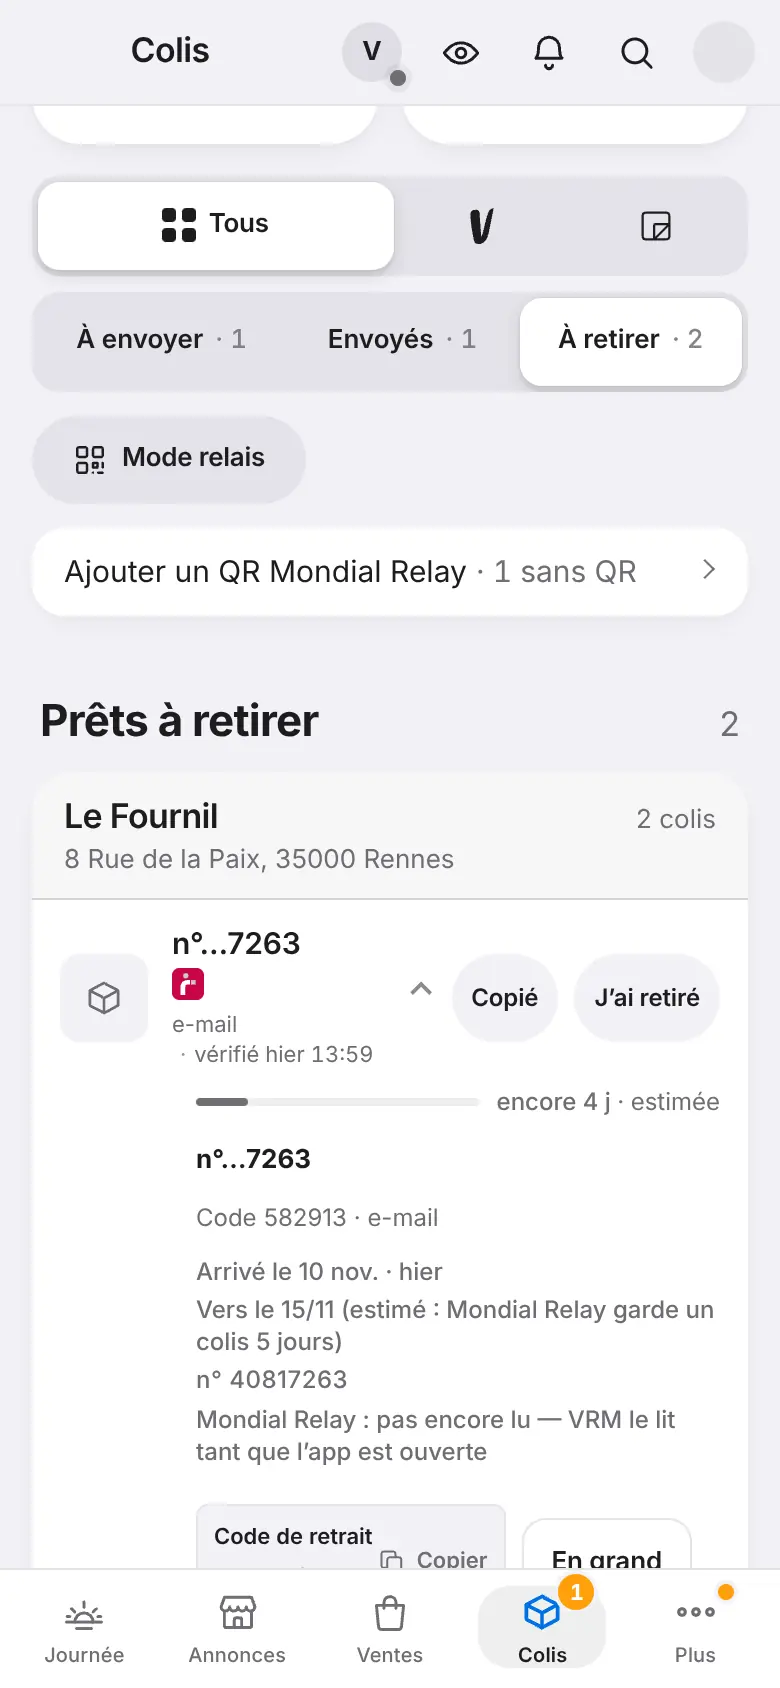
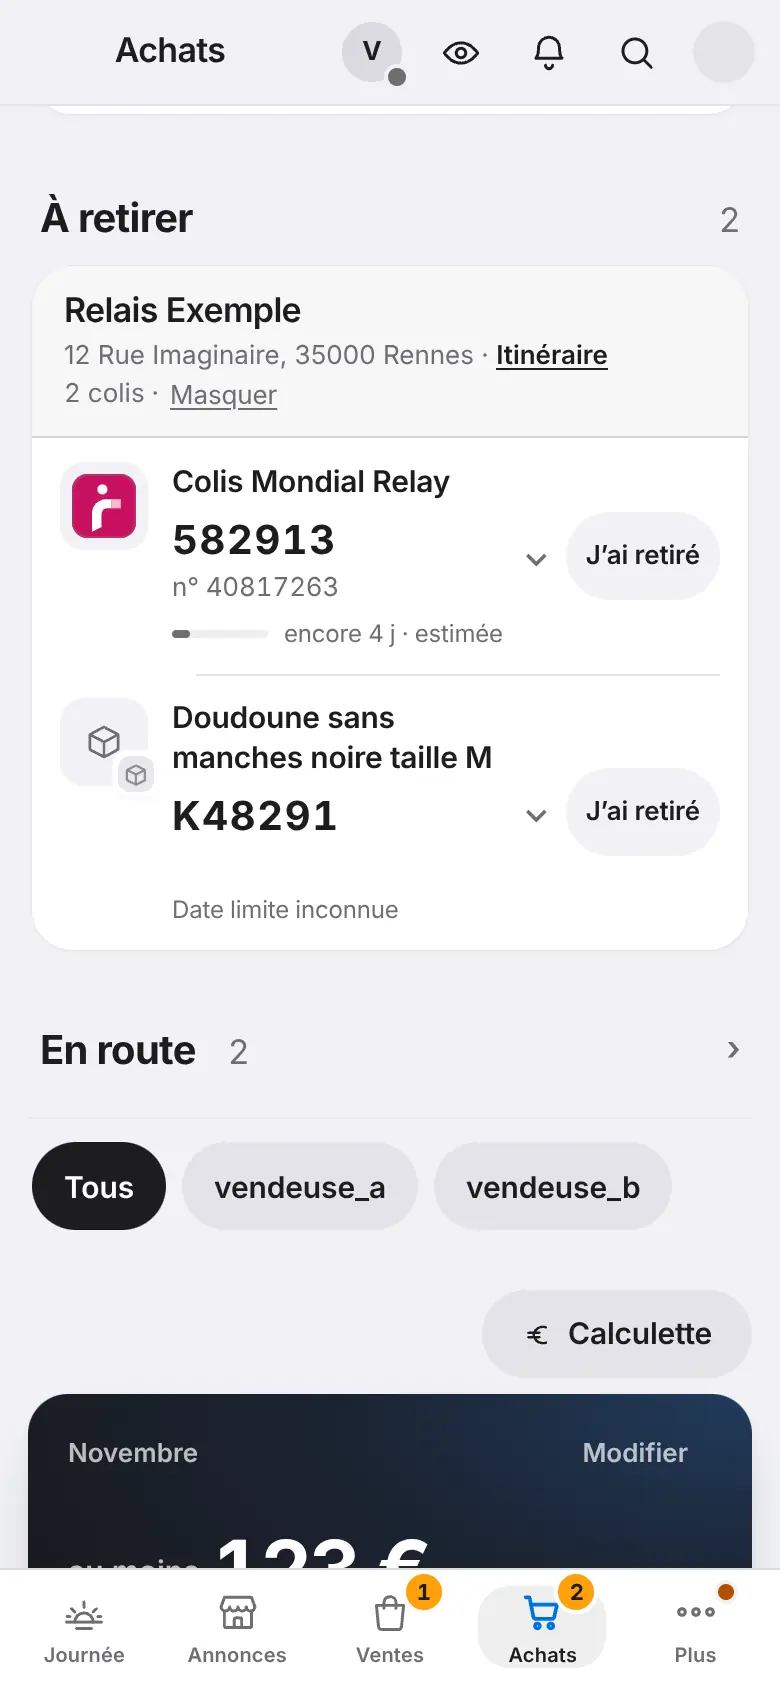
Mode exemple : 21 vraies photos (Wikimedia Commons, CC0 / domaine public), une par paire ; code de la fiche colis marqué ; capture « À retirer » de l'accueil refaite avec le lieu fictif
Claude-Session: https://claude.ai/code/session_012UsEbcF3XbBnmXpwYyNnbn

diff --git a/src/exemplePhotos.js b/src/exemplePhotos.js
@@ -16,16 +16,38 @@
 // ⚠ La marque, le modèle et la couleur d'une entrée décrivent CE QU'ON VOIT sur
 //    la photo : le titre de l'exemple en est tiré (titre ⇔ photo cohérents).
 //
-// (14 nov.) VIDE : le réseau du conteneur de la session a refusé les hôtes des
-// sources permises (commons.wikimedia.org, upload.wikimedia.org,
-// api.openverse.org, unsplash.com, images.unsplash.com, www.pexels.com,
-// images.pexels.com — refus 403 du proxy au CONNECT). Rien n'a été mis à la
-// place : pas de photo d'origine inconnue. Récit :
-// docs/passation/2026-11-14-exemple-photos.md (« Pour ajouter les photos »).
+// (14 nov.) 21 photos de Wikimedia Commons (CC0 ou domaine public versé par
+// l'auteur), recadrées en carré (la paire entière, sur un fond tiré de la photo).
+// L'ORDRE compte : l'entrée n° k est la photo de la paire d'exemple n° k
+// (annonces 0-11, ventes 12-15, achats 16-18) ; les deux dernières sont de
+// réserve (pour remplacer une photo retirée sans en chercher une autre).
+// Récit : docs/passation/2026-11-14-exemple-photos.md.
 //
 // Forme d'une entrée :
 //   { fichier: 'nike-air-max-90-blanche', marque: 'Nike', modele: 'Air Max 90', couleur: 'blanche' }
-export const PHOTOS_EXEMPLE = [];
+export const PHOTOS_EXEMPLE = [
+  { fichier: 'adidas-samba-og-blanche', marque: 'Adidas', modele: 'Samba OG', couleur: 'blanche' },
+  { fichier: 'nike-air-force-1-blanche', marque: 'Nike', modele: 'Air Force 1', couleur: 'blanche' },
+  { fichier: 'new-balance-574-grise', marque: 'New Balance', modele: '574', couleur: 'grise' },
+  { fichier: 'adidas-sl-72-og-rouge', marque: 'Adidas', modele: 'SL 72 OG', couleur: 'rouge' },
+  { fichier: 'nike-dunk-low-noire-blanche', marque: 'Nike', modele: 'Dunk Low', couleur: 'noire et blanche' },
+  { fichier: 'puma-suede-noire', marque: 'Puma', modele: 'Suede', couleur: 'noire' },
+  { fichier: 'new-balance-550-blanche-bordeaux', marque: 'New Balance', modele: '550', couleur: 'blanche et bordeaux' },
+  { fichier: 'nike-air-tailwind-grise-bleue', marque: 'Nike', modele: 'Air Tailwind', couleur: 'grise et bleue' },
+  { fichier: 'adidas-sl-72-rs-bleue', marque: 'Adidas', modele: 'SL 72 RS', couleur: 'bleue' },
+  { fichier: 'nike-zoom-vomero-5-argent', marque: 'Nike', modele: 'Zoom Vomero 5', couleur: 'argent' },
+  { fichier: 'new-balance-numeric-480-marron', marque: 'New Balance', modele: 'Numeric 480', couleur: 'marron et verte' },
+  { fichier: 'adidas-superstar-blanche', marque: 'Adidas', modele: 'Superstar', couleur: 'blanche' },
+  { fichier: 'nike-cortez-blanche-rouge', marque: 'Nike', modele: 'Cortez', couleur: 'blanche et rouge' },
+  { fichier: 'new-balance-1906r-argent', marque: 'New Balance', modele: '1906R', couleur: 'argent' },
+  { fichier: 'adidas-handball-spezial-noire', marque: 'Adidas', modele: 'Handball Spezial', couleur: 'noire' },
+  { fichier: 'nike-air-max-90-blanche', marque: 'Nike', modele: 'Air Max 90', couleur: 'blanche' },
+  { fichier: 'nike-terminator-low-rose-grise', marque: 'Nike', modele: 'Terminator Low', couleur: 'rose et grise' },
+  { fichier: 'adidas-forum-low-blanche', marque: 'Adidas', modele: 'Forum Low', couleur: 'blanche' },
+  { fichier: 'adidas-nmd-r1-bleu-marine', marque: 'Adidas', modele: 'NMD R1', couleur: 'bleu marine' },
+  { fichier: 'adidas-campus-00s-marron', marque: 'Adidas', modele: 'Campus 00s', couleur: 'marron' },
+  { fichier: 'nike-air-max-ltd-2-grise', marque: 'Nike', modele: 'Air Max LTD 2', couleur: 'grise' },
+];
 
 // Les licences permises (la même liste que l'audit) et la page source attendue.
 export const LICENCES_PERMISES = {

diff --git a/src/FichePaire.jsx b/src/FichePaire.jsx
@@ -209,11 +209,15 @@ export default function FichePaire({ owner = '', p, etat = null, histoNum = null
   const titreHeros = p ? ((neuve && neuve.titre) || p.titre || (p.etat === 'rien' ? 'N° jamais servi' : 'Sans titre')) : ((depuis && depuis.titre) || tr('fiche.sansTitre'));
   const tailleHeros = p ? ((neuve && neuve.taille) || p.taille || '') : '';
   const sousHeros = [ctx ? tr(CLE_CTX[ctx] || 'fiche.ctx.vente') : '', depuis && depuis.sous ? depuis.sous : ''].filter(Boolean).join(' · ');
+  // (14 nov.) Sur une ligne « À retirer », `sous` EST le code de retrait (src/CarteRelais.jsx) : il garde son
+  // propre élément, marqué comme un code (`data-stream-type="code"`) — masqué en direct, « exemple » dans l'exemple.
+  const ctxHeros = ctx ? tr(CLE_CTX[ctx] || 'fiche.ctx.vente') : '';
+  const codeHeros = ctx === 'retrait' && depuis && depuis.sous ? depuis.sous : '';
   const heros = (p || depuis) ? (
     <section className={'vrm-fp-heros vrm-fp-entete' + (photoHeros ? ' a-photo' : ' is-sans-photo')} data-fiche-heros={ctx || 'numero'} data-fiche-photo-vedette={photoHeros ? '1' : '0'} aria-label={tr('fiche.heros')}>
       <span className="vrm-fp-heros-photo vrm-fp-photo" data-fiche-heros-photo={photoHeros ? '1' : '0'}>{photoHeros && Photo ? Photo(photoHeros) : <Silhouette/>}</span>
       <span className="vrm-fp-quoi">
-        {sousHeros ? <span className="vrm-fp-heros-ctx" data-fiche-heros-ctx="">{sousHeros}</span> : null}
+        {sousHeros ? <span className="vrm-fp-heros-ctx" data-fiche-heros-ctx="">{codeHeros ? <>{ctxHeros ? `${ctxHeros} · ` : ''}<span className="vrm-sensible" data-stream-type="code" data-fiche-heros-code="">{codeHeros}</span></> : sousHeros}</span> : null}
         {p ? <span className={'vrm-fp-num' + (double ? ' is-double' : '')} data-fiche-grand-num="">{p.num}</span>
           : <span className="vrm-fp-num is-sans" data-fiche-grand-num="" data-fiche-sans-num="">{ligneRes && ligneRes.etat === 'lot' ? tr('fiche.lotN', { n: String(ligneRes.nums.length) }) : tr('fiche.sansNum')}</span>}
         <span className="vrm-fp-titre">{motsInsecables(titreHeros)}{tailleHeros ? ` · ${tailleHeros}` : ''}</span>

diff --git a/src/exempleDonnees.js b/src/exempleDonnees.js
@@ -74,7 +74,7 @@ export function jeuExemple(now = Date.now(), { catalogue = null, origine = '' } 
     { id: 'email_track_mondialrelay_40817263', data: { carrier: 'mondialrelay', status: 'disponible', suivi: '40817263', code: '582913', lieu: LIEU_EXEMPLE.join('\n'), subject: 'Votre colis est disponible', receivedAt: iso(1), arriveLe: iso(1), dateLimite: new Date(now + 5 * 86400000).toISOString() } },
     { id: 'harvest_111_billing', data: { capturedAt: iso(0.01), payload: { user_balance: { available_amount: { amount: '64.0' }, escrow_amount: { amount: '120.0' } } } } },
     { id: 'lbc_accounts', data: { accounts: { lbcA: { id: 'lbcA', name: 'Ma boutique', sessionAt: iso(1) } } } },
-    { id: 'lbc_listings', data: { items: { 3100000001: { id: '3100000001', ref: '2', customRef: 'VRM-2', subject: varie ? article(2).titre : 'Adidas Samba OG noire T39', status: 'active', account: 'lbcA', seenAt: iso(0.5), price: 55 } } } },
+    { id: 'lbc_listings', data: { items: { 3100000001: { id: '3100000001', ref: '2', customRef: 'VRM-2', subject: varie ? article(2).titre : titreVu(kAnnonce(1), 39, 'Adidas Samba OG noire taille 39').replace(/ taille (\d+)$/, ' T$1'), photo: photo(kAnnonce(1)),   /* le N° 2 = l'annonce 1 : la même paire, la même photo */ status: 'active', account: 'lbcA', seenAt: iso(0.5), price: 55 } } } },
     { id: 'lbc_ventes', data: { ventes: {} } },
   ].map((l) => ({ ...l, owner: UID_EXEMPLE, updated_at: iso(0), created_at: iso(30) }));
   const comptes = [

diff --git a/src/i18n/langues/es-accueil.js b/src/i18n/langues/es-accueil.js
@@ -71,7 +71,7 @@ export default {
   "accueil.hero.titre": "Tus ventas, tus paquetes y tu contabilidad, en un solo lugar.",
   "accueil.journee.chapo": "Por la mañana, en el punto de recogida, en el almacén, con tus compradores, a fin de mes.",
   "accueil.journee.titre": "Tu día de revendedor, en cinco momentos.",
-  "accueil.moment.colis.alt": "La pantalla Paquetes de VRM, pestaña «Por recoger»: el punto de recogida Le Fournil en Rennes, dos paquetes y el código de recogida 582913 listo para copiar. Datos de ejemplo.",
+  "accueil.moment.colis.alt": "La pantalla Compras de VRM, apartado «Por recoger»: el punto de recogida «Relais Exemple» en Rennes, dos paquetes y sus códigos de recogida 582913 y K48291. Datos de ejemplo.",
   "accueil.moment.colis.point1": "El código, el QR y el punto de recogida de cada compra.",
   "accueil.moment.colis.point2": "«Ya lo recogí» lo quita de la lista; un paquete dudoso sigue visible, nunca oculto.",
   "accueil.moment.colis.texte": "Las etiquetas de envío se imprimen con un toque, selladas con el título y el número del artículo. En el punto de recogida, tus códigos te esperan, ordenados por punto, incluso sin conexión.",

diff --git a/src/i18n/langues/it-accueil.js b/src/i18n/langues/it-accueil.js
@@ -71,7 +71,7 @@ export default {
   "accueil.hero.titre": "Le tue vendite, i tuoi pacchi e la tua contabilità, nello stesso posto.",
   "accueil.journee.chapo": "Al mattino, al punto di ritiro, in magazzino, con i tuoi acquirenti, a fine mese.",
   "accueil.journee.titre": "La tua giornata da rivenditore, in cinque momenti.",
-  "accueil.moment.colis.alt": "La schermata Pacchi di VRM, scheda «Da ritirare»: il punto di ritiro Le Fournil a Rennes, due pacchi e il codice di ritiro 582913 pronto da copiare. Dati di esempio.",
+  "accueil.moment.colis.alt": "La schermata Acquisti di VRM, sezione «Da ritirare»: il punto di ritiro «Relais Exemple» a Rennes, due pacchi e i loro codici di ritiro 582913 e K48291. Dati di esempio.",
   "accueil.moment.colis.point1": "Il codice, il QR e il punto di ritiro di ogni acquisto.",
   "accueil.moment.colis.point2": "«Ritirato» lo toglie dalla lista; un pacco dubbio resta visibile, mai nascosto.",
   "accueil.moment.colis.texte": "Le etichette di spedizione si stampano con un tocco, timbrate con titolo e numero dell’articolo. Al punto di ritiro, i tuoi codici ti aspettano, ordinati per punto, anche offline.",

diff --git a/src/i18n/langues/fr-accueil.js b/src/i18n/langues/fr-accueil.js
@@ -71,7 +71,7 @@ export default {
   "accueil.hero.titre": "Tes ventes, tes colis et ta compta, au même endroit.",
   "accueil.journee.chapo": "Le matin, au relais, au stock, avec tes acheteurs, en fin de mois.",
   "accueil.journee.titre": "Ta journée de revendeur, en cinq moments.",
-  "accueil.moment.colis.alt": "L’écran Colis de VRM, onglet « À retirer » : le point relais Le Fournil à Rennes, deux colis, et le code de retrait 582913 prêt à copier. Données d’exemple.",
+  "accueil.moment.colis.alt": "L’écran Achats de VRM, partie « À retirer » : le point relais « Relais Exemple » à Rennes, deux colis et leurs codes de retrait 582913 et K48291. Données d’exemple.",
   "accueil.moment.colis.point1": "Le code, le QR et le point relais de chaque achat.",
   "accueil.moment.colis.point2": "« J’ai retiré » le sort de la liste ; un colis douteux reste visible, jamais caché.",
   "accueil.moment.colis.texte": "Les bordereaux s’impriment d’un geste, tamponnés du titre et du numéro de l’article. Au relais, tes codes de retrait t’attendent, rangés par point, même sans réseau.",

diff --git a/src/i18n/langues/en-accueil.js b/src/i18n/langues/en-accueil.js
@@ -71,7 +71,7 @@ export default {
   "accueil.hero.titre": "Your sales, parcels and accounting, in one place.",
   "accueil.journee.chapo": "In the morning, at the pickup point, in the stockroom, with your buyers, at month’s end.",
   "accueil.journee.titre": "Your reseller day, in five moments.",
-  "accueil.moment.colis.alt": "VRM’s Parcels screen, “To pick up” tab: the Le Fournil pickup point in Rennes, two parcels, and the pickup code 582913 ready to copy. Sample data.",
+  "accueil.moment.colis.alt": "VRM’s Purchases screen, “To pick up” section: the “Relais Exemple” pickup point in Rennes, two parcels and their pickup codes 582913 and K48291. Sample data.",
   "accueil.moment.colis.point1": "The code, the QR and the pickup point for each purchase.",
   "accueil.moment.colis.point2": "“Picked up” takes it off the list; a doubtful parcel stays visible, never hidden.",
   "accueil.moment.colis.texte": "Shipping labels print in one tap, stamped with the item’s title and number. At the pickup point, your pickup codes are waiting, sorted by location, even offline.",

diff --git a/src/i18n/langues/de-accueil.js b/src/i18n/langues/de-accueil.js
@@ -71,7 +71,7 @@ export default {
   "accueil.hero.titre": "Deine Verkäufe, Pakete und Buchhaltung an einem Ort.",
   "accueil.journee.chapo": "Morgens, im Paketshop, im Lager, mit deinen Käufern, am Monatsende.",
   "accueil.journee.titre": "Dein Tag als Wiederverkäufer, in fünf Momenten.",
-  "accueil.moment.colis.alt": "Die Seite Pakete in VRM, Reiter „Abzuholen“: der Paketshop Le Fournil in Rennes, zwei Pakete und der Abholcode 582913 zum Kopieren. Beispieldaten.",
+  "accueil.moment.colis.alt": "Die Seite Einkäufe in VRM, Bereich „Abzuholen“: der Paketshop „Relais Exemple“ in Rennes, zwei Pakete und ihre Abholcodes 582913 und K48291. Beispieldaten.",
   "accueil.moment.colis.point1": "Code, QR und Paketshop für jeden Einkauf.",
   "accueil.moment.colis.point2": "„Abgeholt“ nimmt es von der Liste; ein fragliches Paket bleibt sichtbar, nie versteckt.",
   "accueil.moment.colis.texte": "Versandetiketten druckst du mit einem Tipp, gestempelt mit Titel und Nummer des Artikels. Im Paketshop warten deine Abholcodes, nach Ort sortiert, auch offline.",

diff --git a/public/exemple/CREDITS.md b/public/exemple/CREDITS.md
@@ -17,6 +17,9 @@ Règles (vérifiées par `scripts/audit-exemple-photos.cjs`) :
 - deux fichiers par photo : `{fichier}-400.webp` (400 × 400) et `{fichier}-120.webp` (120 × 120),
   chacun **< 40 Ko** ;
 - aucune photo d'une vraie annonce Vinted, aucune personne identifiable, aucun visage ;
+- licence relue SUR la page source le 14 nov. 2026 (modèle `{{self|cc-zero}}`, `{{PD-self}}`,
+  `{{PD-user}}` ou `{{PD-user-w}}` : l'auteur a lui-même versé sa photo), aucune demande de suppression ;
+  les marques (logos) visibles sur les chaussures restent celles de leurs fabricants ;
 - « ce qu'on voit » (marque, modèle, couleur) est celui de l'entrée de `src/exemplePhotos.js` :
   le titre de la paire d'exemple en est tiré.
 
@@ -24,6 +27,25 @@ Règles (vérifiées par `scripts/audit-exemple-photos.cjs`) :
 
 | fichier | ce qu'on voit | auteur | page source | licence | vérifiée le |
 |---|---|---|---|---|---|
+| adidas-samba-og-blanche | Adidas Samba OG blanche | LeDroider | https://commons.wikimedia.org/wiki/File:Adidas_Samba_OG.jpg | CC0 1.0 | 2026-11-14 |
+| nike-air-force-1-blanche | Nike Air Force 1 blanche | Kyntömies (Wikipedia en finnois) | https://commons.wikimedia.org/wiki/File:Nike_Air_Force_1.jpg | Domaine public | 2026-11-14 |
+| new-balance-574-grise | New Balance 574 grise | LeDroider | https://commons.wikimedia.org/wiki/File:New_Balance_574.jpg | CC0 1.0 | 2026-11-14 |
+| adidas-sl-72-og-rouge | Adidas SL 72 OG rouge | LeDroider | https://commons.wikimedia.org/wiki/File:Adidas_SL_72_OG.jpg | CC0 1.0 | 2026-11-14 |
+| nike-dunk-low-noire-blanche | Nike Dunk Low noire et blanche | LeDroider | https://commons.wikimedia.org/wiki/File:Panda_Nike_Dunk.jpg | CC0 1.0 | 2026-11-14 |
+| puma-suede-noire | Puma Suede noire | LeDroider | https://commons.wikimedia.org/wiki/File:Puma_Suede.jpg | CC0 1.0 | 2026-11-14 |
+| new-balance-550-blanche-bordeaux | New Balance 550 blanche et bordeaux | LeDroider | https://commons.wikimedia.org/wiki/File:New_Balance_550.jpg | CC0 1.0 | 2026-11-14 |
+| nike-air-tailwind-grise-bleue | Nike Air Tailwind grise et bleue | LeDroider | https://commons.wikimedia.org/wiki/File:Nike_Air_Tailwind.jpg | CC0 1.0 | 2026-11-14 |
+| adidas-sl-72-rs-bleue | Adidas SL 72 RS bleue | LeDroider | https://commons.wikimedia.org/wiki/File:Adidas_SL_72_RS.jpg | CC0 1.0 | 2026-11-14 |
+| nike-zoom-vomero-5-argent | Nike Zoom Vomero 5 argent | LeDroider | https://commons.wikimedia.org/wiki/File:Nike_Zoom_Vomero_5.jpg | CC0 1.0 | 2026-11-14 |
+| new-balance-numeric-480-marron | New Balance Numeric 480 marron et verte | LeDroider | https://commons.wikimedia.org/wiki/File:New_Balance_Numeric_480.jpg | CC0 1.0 | 2026-11-14 |
+| adidas-superstar-blanche | Adidas Superstar blanche | Xanor | https://commons.wikimedia.org/wiki/File:Adidas_Superstar.JPG | CC0 1.0 | 2026-11-14 |
+| nike-cortez-blanche-rouge | Nike Cortez blanche et rouge | LeDroider | https://commons.wikimedia.org/wiki/File:Nike_Cortez.jpg | CC0 1.0 | 2026-11-14 |
+| new-balance-1906r-argent | New Balance 1906R argent | LeDroider | https://commons.wikimedia.org/wiki/File:New_Balance_1906R.jpg | CC0 1.0 | 2026-11-14 |
+| adidas-handball-spezial-noire | Adidas Handball Spezial noire | LeDroider | https://commons.wikimedia.org/wiki/File:Adidas_Handball_Spezial.jpg | CC0 1.0 | 2026-11-14 |
+| nike-air-max-90-blanche | Nike Air Max 90 blanche | Mr. Carter4 (Wikipedia en anglais) | https://commons.wikimedia.org/wiki/File:Air_max_90.JPG | Domaine public | 2026-11-14 |
+| nike-terminator-low-rose-grise | Nike Terminator Low rose et grise | LeDroider | https://commons.wikimedia.org/wiki/File:Nike_Terminator_Low.jpg | CC0 1.0 | 2026-11-14 |
+| adidas-forum-low-blanche | Adidas Forum Low blanche | LeDroider | https://commons.wikimedia.org/wiki/File:Adidas_Forum.jpg | CC0 1.0 | 2026-11-14 |
+| adidas-nmd-r1-bleu-marine | Adidas NMD R1 bleu marine | LeDroider | https://commons.wikimedia.org/wiki/File:Adidas_NMD_R1.jpg | CC0 1.0 | 2026-11-14 |
+| adidas-campus-00s-marron | Adidas Campus 00s marron | LeDroider | https://commons.wikimedia.org/wiki/File:Adidas_Campus_00s.jpg | CC0 1.0 | 2026-11-14 |
+| nike-air-max-ltd-2-grise | Nike Air Max LTD 2 grise | Mr. Carter4 (Wikipedia en anglais) | https://commons.wikimedia.org/wiki/File:Air_Max_ltd_2.jpg | Domaine public | 2026-11-14 |
 
-_Aucune photo pour l'instant (14 nov. 2026) : le réseau du conteneur de la session refusait les
-hôtes des sources permises. Voir `docs/passation/2026-11-14-exemple-photos.md`._
